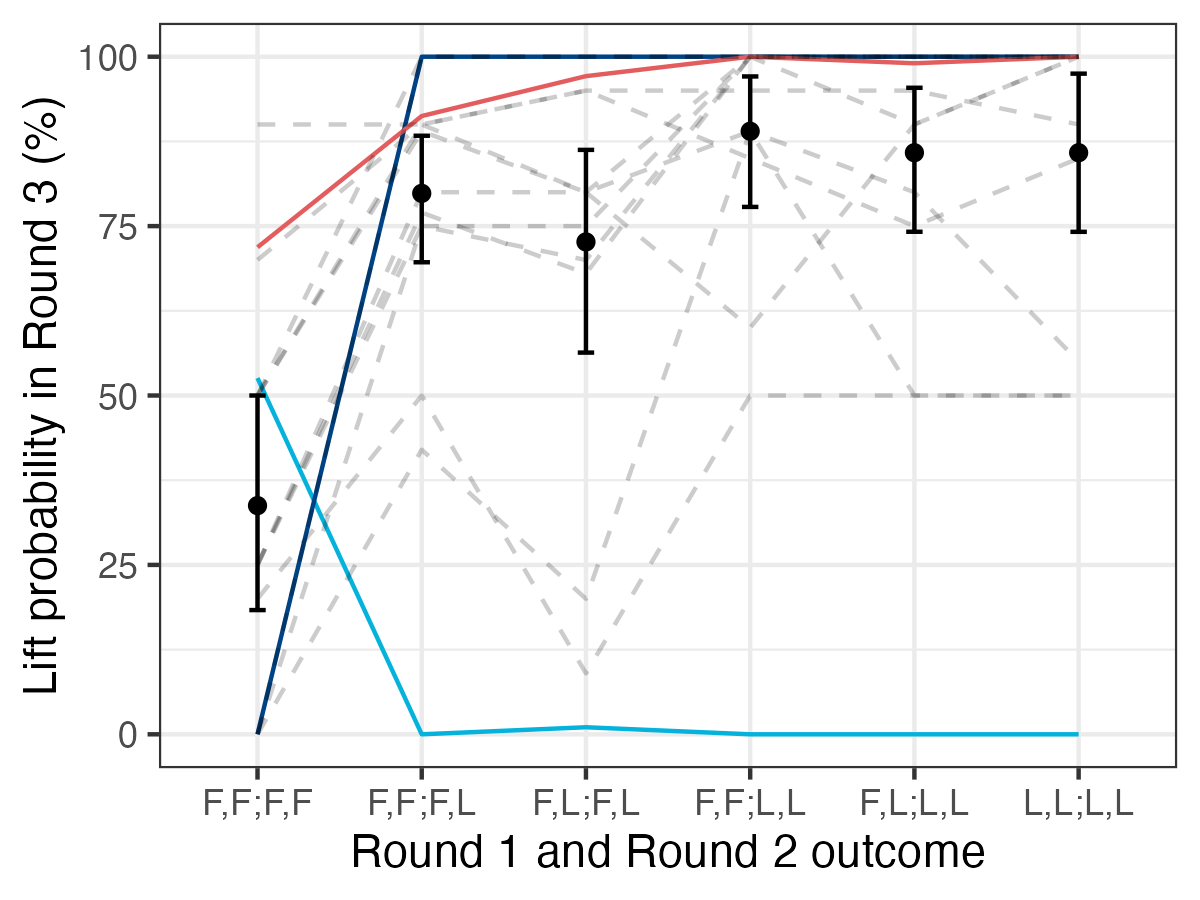
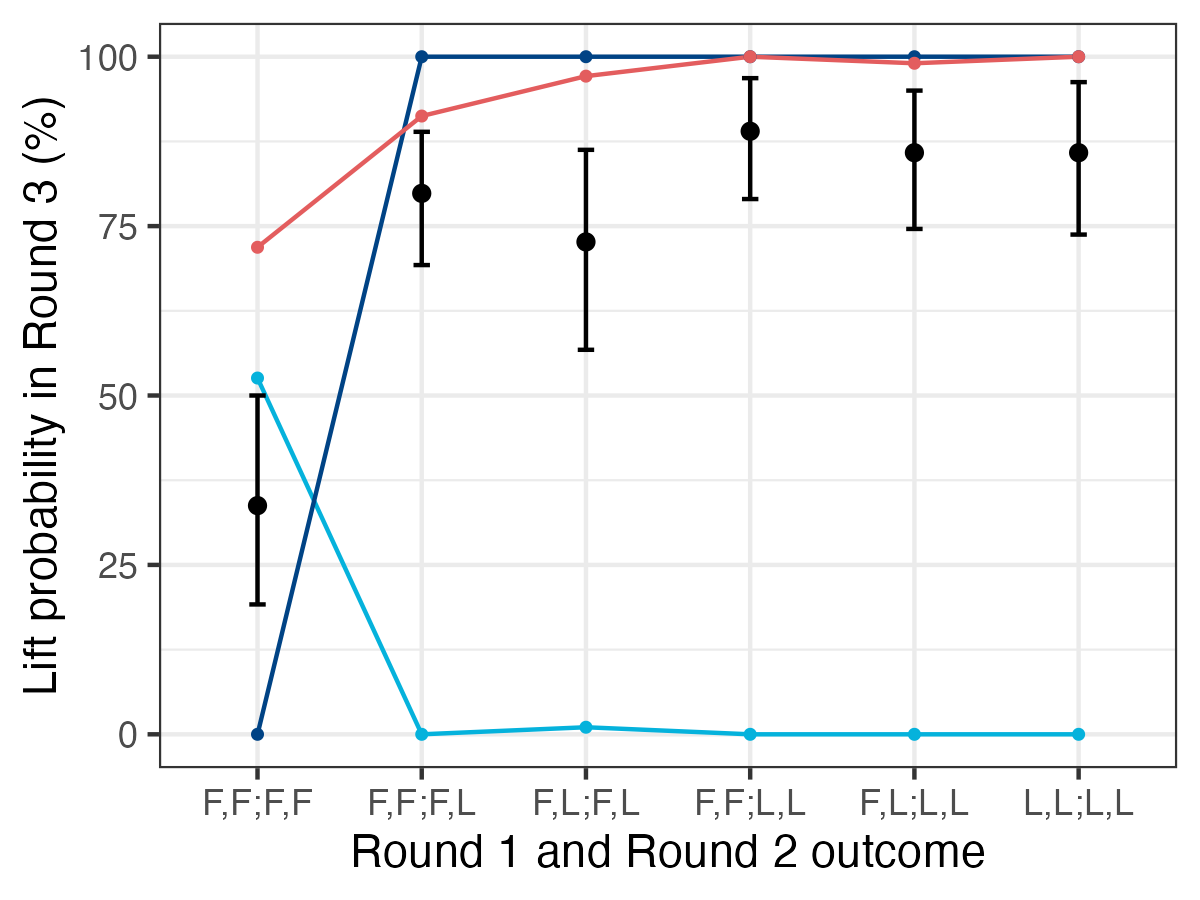
add fig3c with rawdata and move give sanity check block a label for sensible urls

diff --git a/docs/writeup/index.html b/docs/writeup/index.html
@@ -156,7 +156,7 @@ ul.task-list li input[type="checkbox"] {
 <figcaption>An example table for a contest, as it would appear during the probability judgment at the beginning of round 3.</figcaption>
 </figure>
 </div>
-<p>The challenges/opportunities for my learning in this replication project will include: 1) recreating the paper’s proposed (joint effort) model and two alternative (solitary/compensatory effort) models of the probability of joint success in <a href="https://github.com/kach/memo">Memo</a> (based on the authors’ pre-existing implementations in WebPPL), and 2) running these models over my newly collected data to attempt to replicate that the proposed model is most predictive of participants’ judgments. (I will also replace the original authors’ data-saving step (a php page) with <a href="https://pipe.jspsych.org/">DataPipe</a>.)</p>
+<p>The challenges/opportunities for my learning in this replication project will include: 1) recreating the paper’s proposed (joint effort) model and two alternative (solitary/compensatory effort) models of the probability of joint success in <a href="https://github.com/kach/memo">memo</a> (based on the authors’ pre-existing implementations in WebPPL), and 2) running these models over my newly collected data to attempt to replicate that the proposed model is most predictive of participants’ judgments. (I will also replace the original authors’ data-saving step (a php page) with <a href="https://pipe.jspsych.org/">DataPipe</a>.)</p>
 <p>Specifically, I will attempt to replicate that A) when rounds 1 and 2 feature no individual success, participants still judge the probability of joint success in round 3 as non-zero. In addition to this confirmatory analysis, I will attempt to qualitatively replicate that B) participants judge higher probability of joint success as cases of individual success increases, and that the proposed model is the only model evaluated which predicts both patterns A and B. See Analysis Plan below for more details.</p>
 <!--
 the measure of interest: judged round 3 (joint success) probability ("participants believed that the lift probability for “F,F;F,F” was different from zero")
@@ -281,7 +281,7 @@ Hosted version of this report: <a href="https://psyc-201.github.io/xiang2023/wri
 <li>No more than two attempts of the comprehension check will be allowed (per <a href="https://researcher-help.prolific.com/en/articles/445153-prolific-s-attention-and-comprehension-check-policy">Prolific guidelines</a>). Accordingly, before the comprehension check, we added: “You will have two chances to complete the comprehension questions correctly before we ask you to return your submission, per Prolific guidelines.”; and upon comprehension check failure, we added: “Please note that you have only X attempt(s) left.”</li>
 </ol>
 <p>While the confirmatory analysis will be rerun using the original R code provided by the authors, for the qualitative replication attempt I will use a reimplementation of the joint effort model and the alternative models (solitary effort and compensatory effort models) in memo, which were originally written in WebPPL. I expect that reimplementation of the continuous probabilistic models in WebPPL as discrete probabilistic models in memo will produce higher estimate precision as the model predictions will be deterministic, rather than stochastic. (I will discretize the distribution at a high resolution such that there is no systematic difference in estimates.)</p>
-<p>I do not anticipate that these differences are meaningful regarding the original paper’s claims and the analyses of interest.</p>
+<p>I do not anticipate that these differences are meaningful regarding the original paper’s claims and the analyses of interest. However, it is possible that 3 and 4 - improving comprehension-check fairness and reducing testing fatigue - may slightly improve measurement precision and reduce measurement bias, enhancing the claims of my replication.</p>
 </section>
 <section id="reliability-and-validity" class="level3">
 <h3 class="anchored" data-anchor-id="reliability-and-validity">Reliability and Validity</h3>
@@ -333,7 +333,7 @@ Hosted version of this report: <a href="https://psyc-201.github.io/xiang2023/wri
 <div class="cell-output-display">
 <div>
 <figure class="figure">
-<p><img src="index_files/figure-html/unnamed-chunk-6-1.png" class="img-fluid figure-img" width="672"></p>
+<p><img src="index_files/figure-html/unnamed-chunk-5-1.png" class="img-fluid figure-img" width="672"></p>
 </figure>
 </div>
 </div>
@@ -351,16 +351,37 @@ Hosted version of this report: <a href="https://psyc-201.github.io/xiang2023/wri
 <thead>
 <tr class="header">
 <th>Original (Figure 3C)</th>
-<th>New</th>
+<th>New (Figure 3C Replication)</th>
 </tr>
 </thead>
 <tbody>
 <tr class="odd">
 <td><img src="./figure3c.png" class="img-fluid" alt="Figure 3C"><br><img src="./figure3c-legend.png" height="150"><br><br>“Note. … Model simulations averaged over 10 runs. Error bars indicate bootstrapped 95% confidence intervals.” (p.&nbsp;1571)</td>
-<td><img src="./replication-fig3c.png" class="img-fluid"><br><br>Note. Error bars indicate bootstrapped 95% confidence intervals.</td>
+<td><img src="./replication-fig3c.png" class="img-fluid" alt="Figure 3C Replication"><br><br>Note. Model simulations consider strengths from 1 to 10 (inclusive) in steps of 0.03 (determined by memory constraints). Error bars indicate bootstrapped 95% confidence intervals.</td>
 </tr>
 </tbody>
 </table>
+<div class="callout callout-style-default callout-note callout-titled">
+<div class="callout-header d-flex align-content-center collapsed" data-bs-toggle="collapse" data-bs-target=".callout-2-contents" aria-controls="callout-2" aria-expanded="false" aria-label="Toggle callout">
+<div class="callout-icon-container">
+<i class="callout-icon"></i>
+</div>
+<div class="callout-title-container flex-fill">
+<span class="screen-reader-only">Note</span>Figure 3C Replication with Raw Data
+</div>
+<div class="callout-btn-toggle d-inline-block border-0 py-1 ps-1 pe-0 float-end"><i class="callout-toggle"></i></div>
+</div>
+<div id="callout-2" class="callout-2-contents callout-collapse collapse">
+<div class="callout-body-container callout-body">
+<div class="quarto-figure quarto-figure-center">
+<figure class="figure">
+<p><img src="./replication-fig3c-withrawdata.png" class="img-fluid figure-img"></p>
+<figcaption>Figure 3C Replication with Raw Data</figcaption>
+</figure>
+</div>
+</div>
+</div>
+</div>
 <!-- ## Discussion
 
 ### Summary of Replication Attempt
